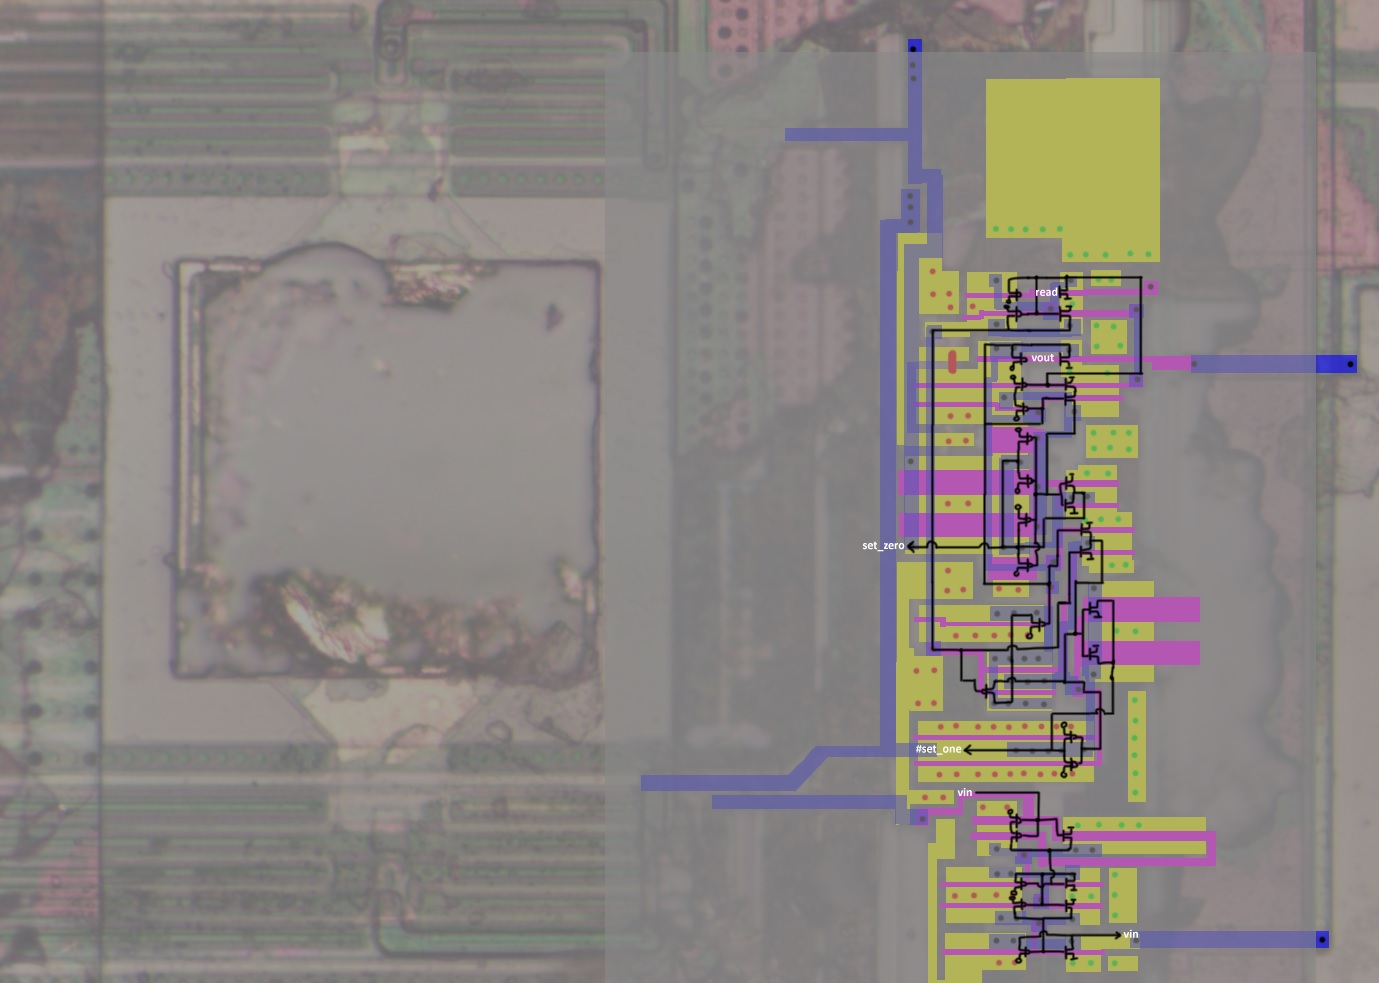
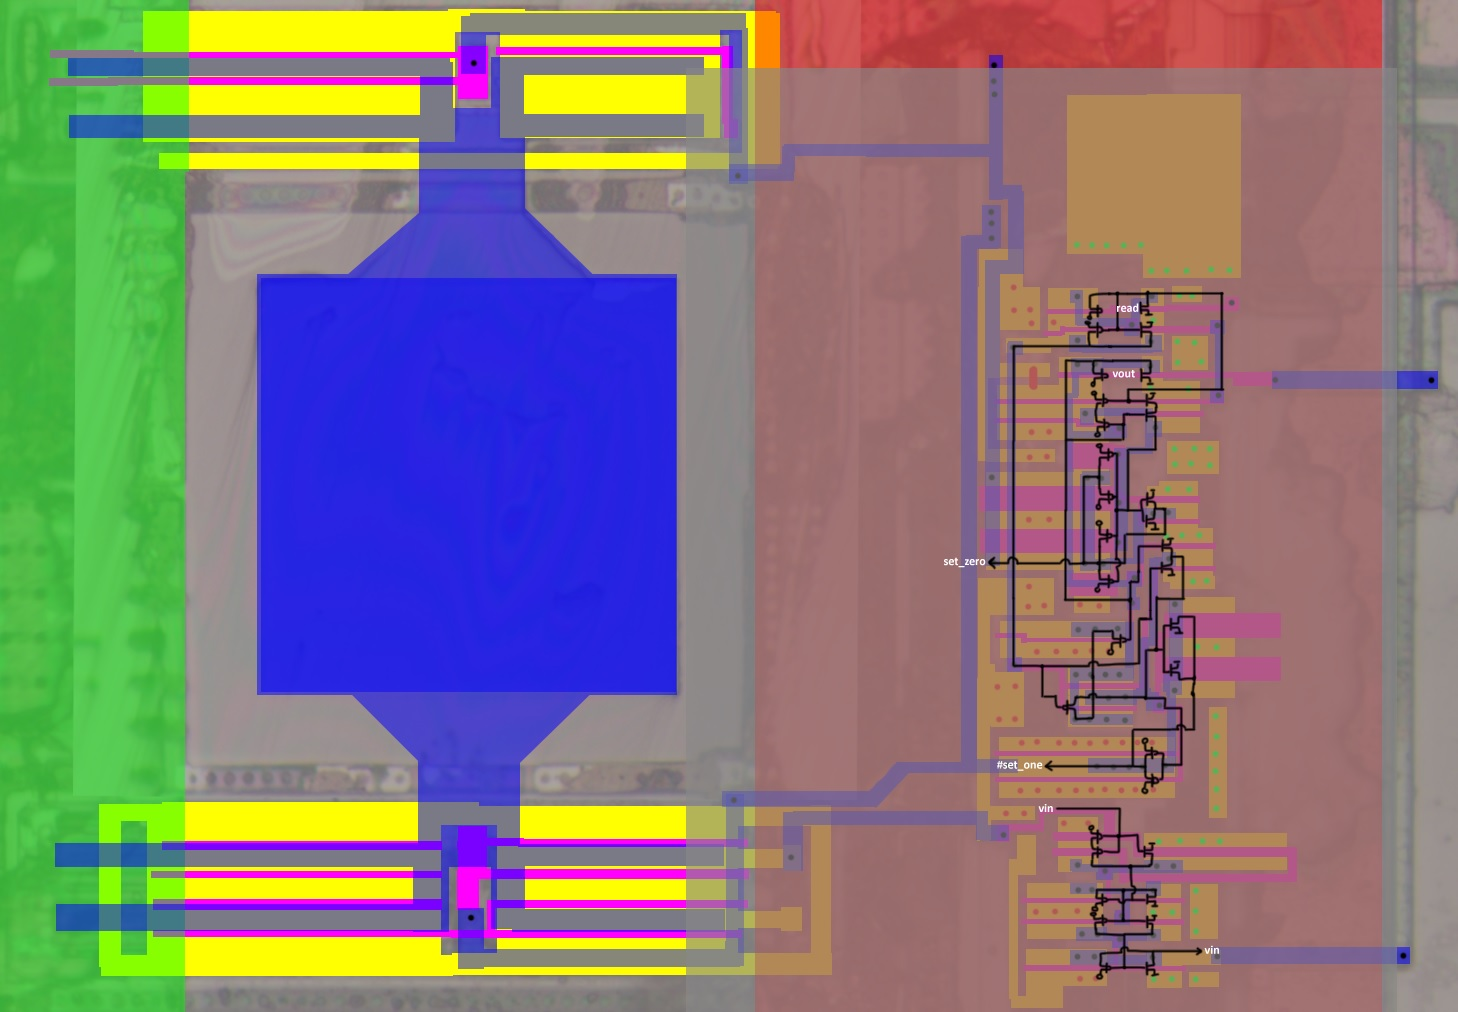
Завершено исследование inout терминала.

diff --git a/Z80/pads.md b/Z80/pads.md
@@ -19,4 +19,4 @@
 |![pad_inout_tran](imgstore/modules/pad_inout_tran.jpg)|![pad_inout](imgstore/modules/pad_inout.png)|
 |---|---|
 
-(Контактная площадка на схеме пока не показана).
+Контактная площадка очень плохо разбираема на фото, но в целом как она работает понятно. Транзистор справа вверху скорее всего подсоединен к GND и формирует защитный диод (ESD).

diff --git a/Z80/HDL/Icarus/Readme.md b/Z80/HDL/Icarus/Readme.md
@@ -1,0 +1,10 @@
+# Z80 Icarus TestBench
+
+Projects for Icarus Verilog (http://iverilog.icarus.com/).
+
+## How to use
+
+- Download Icarus Verilog.
+- Run run.bat
+- Open z80.vcd in GTKWave
+- Think, scratch your head, fix bugs, redo everything
